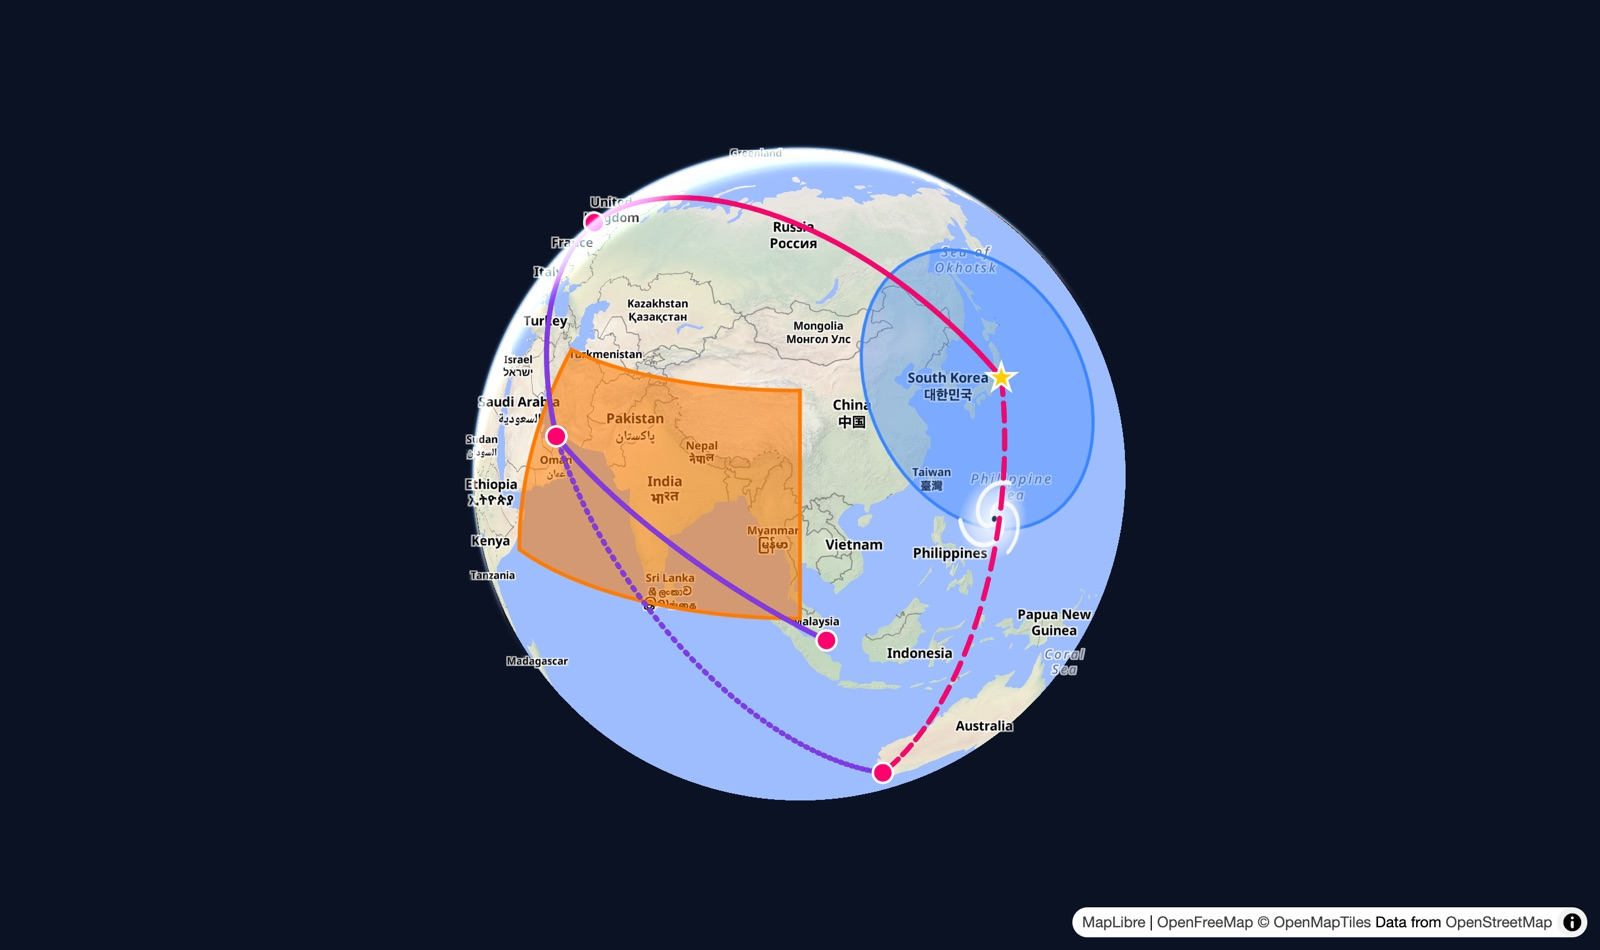
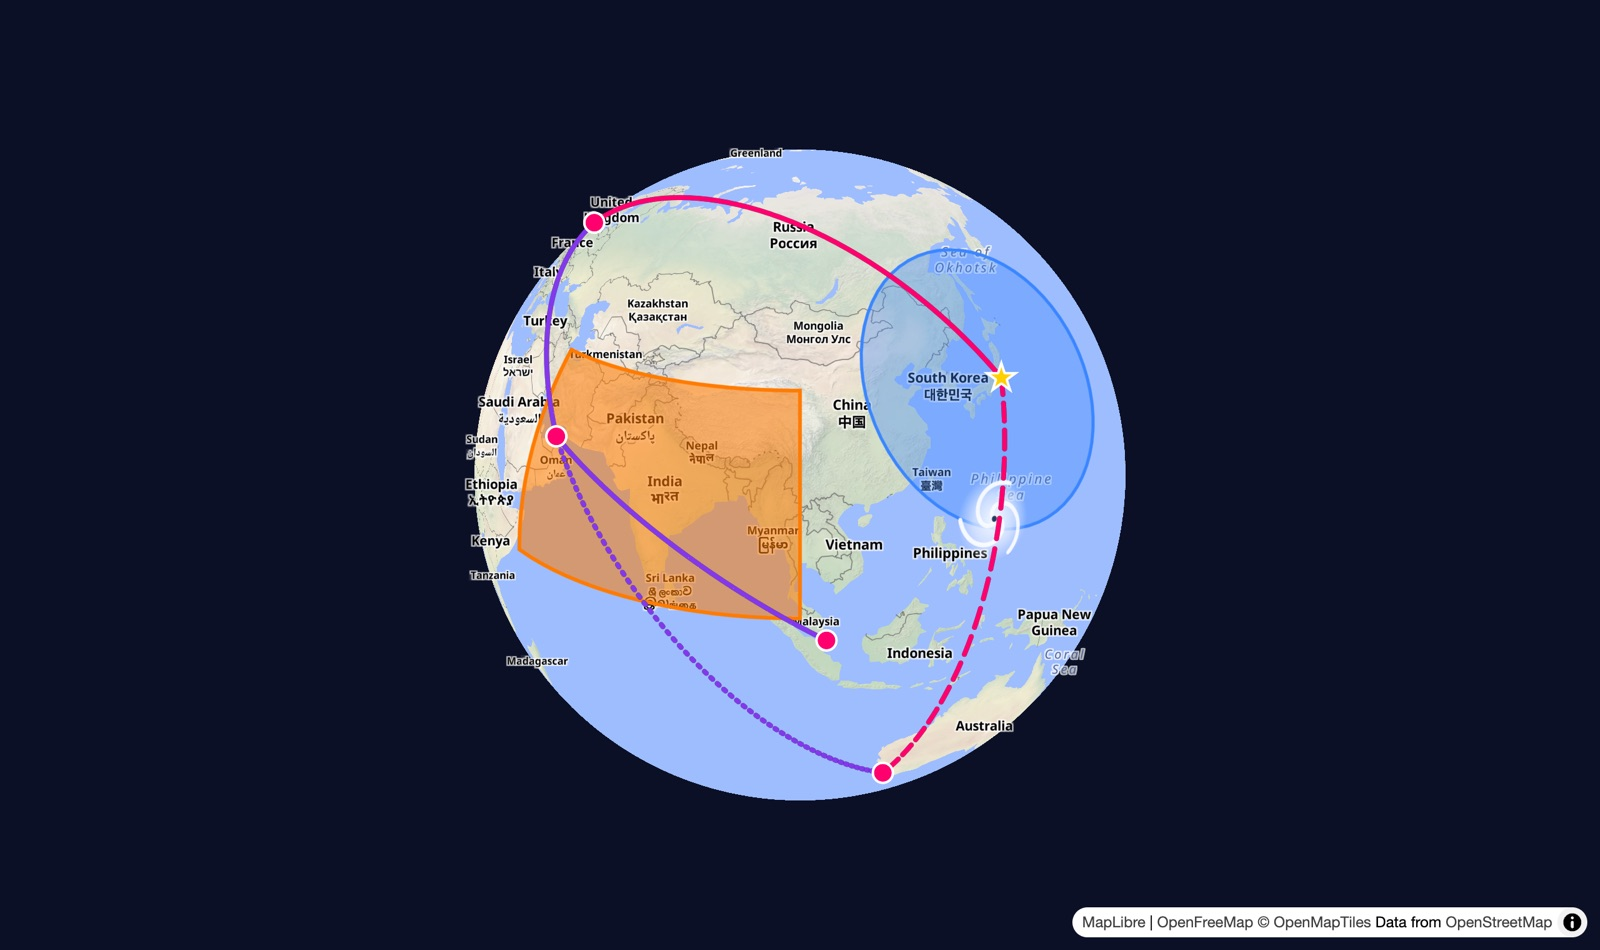
Draw the globe scene of the showcase without the atmosphere and on the same space color as the globe example

Changed region(s): [[0.3125, 0.1526, 0.625, 0.3663], [0.2812, 0.3663, 0.3125, 0.5189]]

diff --git a/playground/showcase/globe.ts b/playground/showcase/globe.ts
@@ -43,7 +43,8 @@ export const globeScene: ShowcaseScene = {
 
 function setUpGlobe(map: maplibregl.Map): void {
   map.setProjection({ type: 'globe' });
-  map.setSky({ 'atmosphere-blend': 1 });
+  // No atmosphere, as in the globe example: its glow blurs the edge of the globe
+  map.setSky({ 'atmosphere-blend': 0 });
   map.getContainer().classList.add('showcase-space');
 }
 

diff --git a/playground/showcase/showcase.css b/playground/showcase/showcase.css
@@ -47,5 +47,5 @@
 }
 
 .showcase-space {
-  background-color: #0b1224;
+  background-color: #0b1026;
 }
